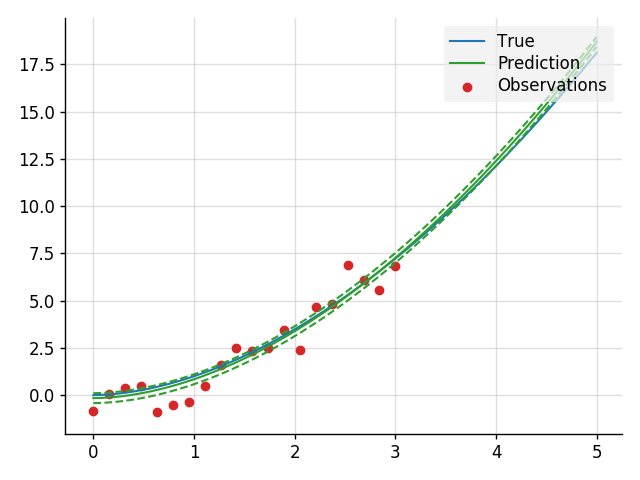
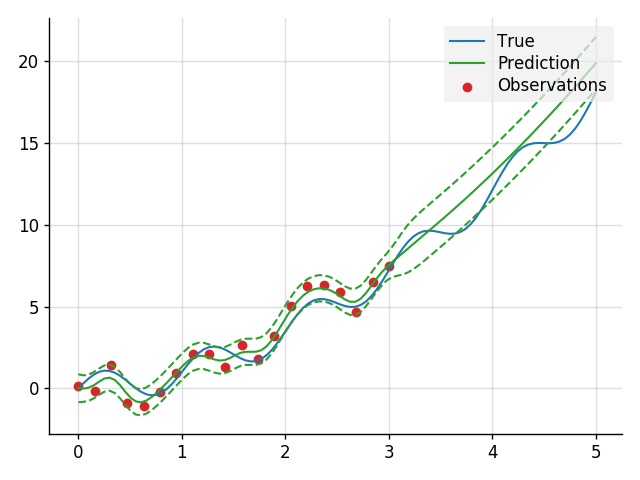
Improve example 3

diff --git a/readme_example3_parametric.py b/readme_example3_parametric.py
@@ -16,7 +16,7 @@ def model(vs):
 
     # Random fluctuation:
     u = GP(vs.pos(.5, name='u/var') *
-           EQ().stretch(vs.pos(1., name='u/scale')), graph=g)
+           EQ().stretch(vs.pos(0.5, name='u/scale')), graph=g)
 
     # Noise:
     e = GP(vs.pos(0.5, name='e/var') * Delta(), graph=g)
@@ -31,19 +31,19 @@ def model(vs):
 
 # Sample a true, underlying function and observations.
 vs = Vars(tf.float64)
-f_true = x ** 1.8
+f_true = x ** 1.8 + B.sin(2 * B.pi * x)
 f, y = model(vs)
 y_obs = (y | (f(x), f_true))(x_obs).sample()
 
 
 def objective(vs):
     f, y = model(vs)
-    evidence = y(tf.constant(x_obs)).logpdf(y_obs)
+    evidence = y(x_obs).logpdf(y_obs)
     return -evidence
 
 
 # Learn hyperparameters.
-minimise_l_bfgs_b(objective, vs)
+minimise_l_bfgs_b(tf.function(objective, autograph=False), vs)
 f, y = model(vs)
 
 # Print the learned parameters.

diff --git a/README.md b/README.md
@@ -1018,7 +1018,7 @@ def model(vs):
 
     # Random fluctuation:
     u = GP(vs.pos(.5, name='u/var') *
-           EQ().stretch(vs.pos(1., name='u/scale')), graph=g)
+           EQ().stretch(vs.pos(0.5, name='u/scale')), graph=g)
 
     # Noise:
     e = GP(vs.pos(0.5, name='e/var') * Delta(), graph=g)
@@ -1033,19 +1033,19 @@ def model(vs):
 
 # Sample a true, underlying function and observations.
 vs = Vars(tf.float64)
-f_true = x ** 1.8
+f_true = x ** 1.8 + B.sin(2 * B.pi * x)
 f, y = model(vs)
 y_obs = (y | (f(x), f_true))(x_obs).sample()
 
 
 def objective(vs):
     f, y = model(vs)
-    evidence = y(tf.constant(x_obs)).logpdf(y_obs)
+    evidence = y(x_obs).logpdf(y_obs)
     return -evidence
 
 
 # Learn hyperparameters.
-minimise_l_bfgs_b(objective, vs)
+minimise_l_bfgs_b(tf.function(objective, autograph=False), vs)
 f, y = model(vs)
 
 # Print the learned parameters.
